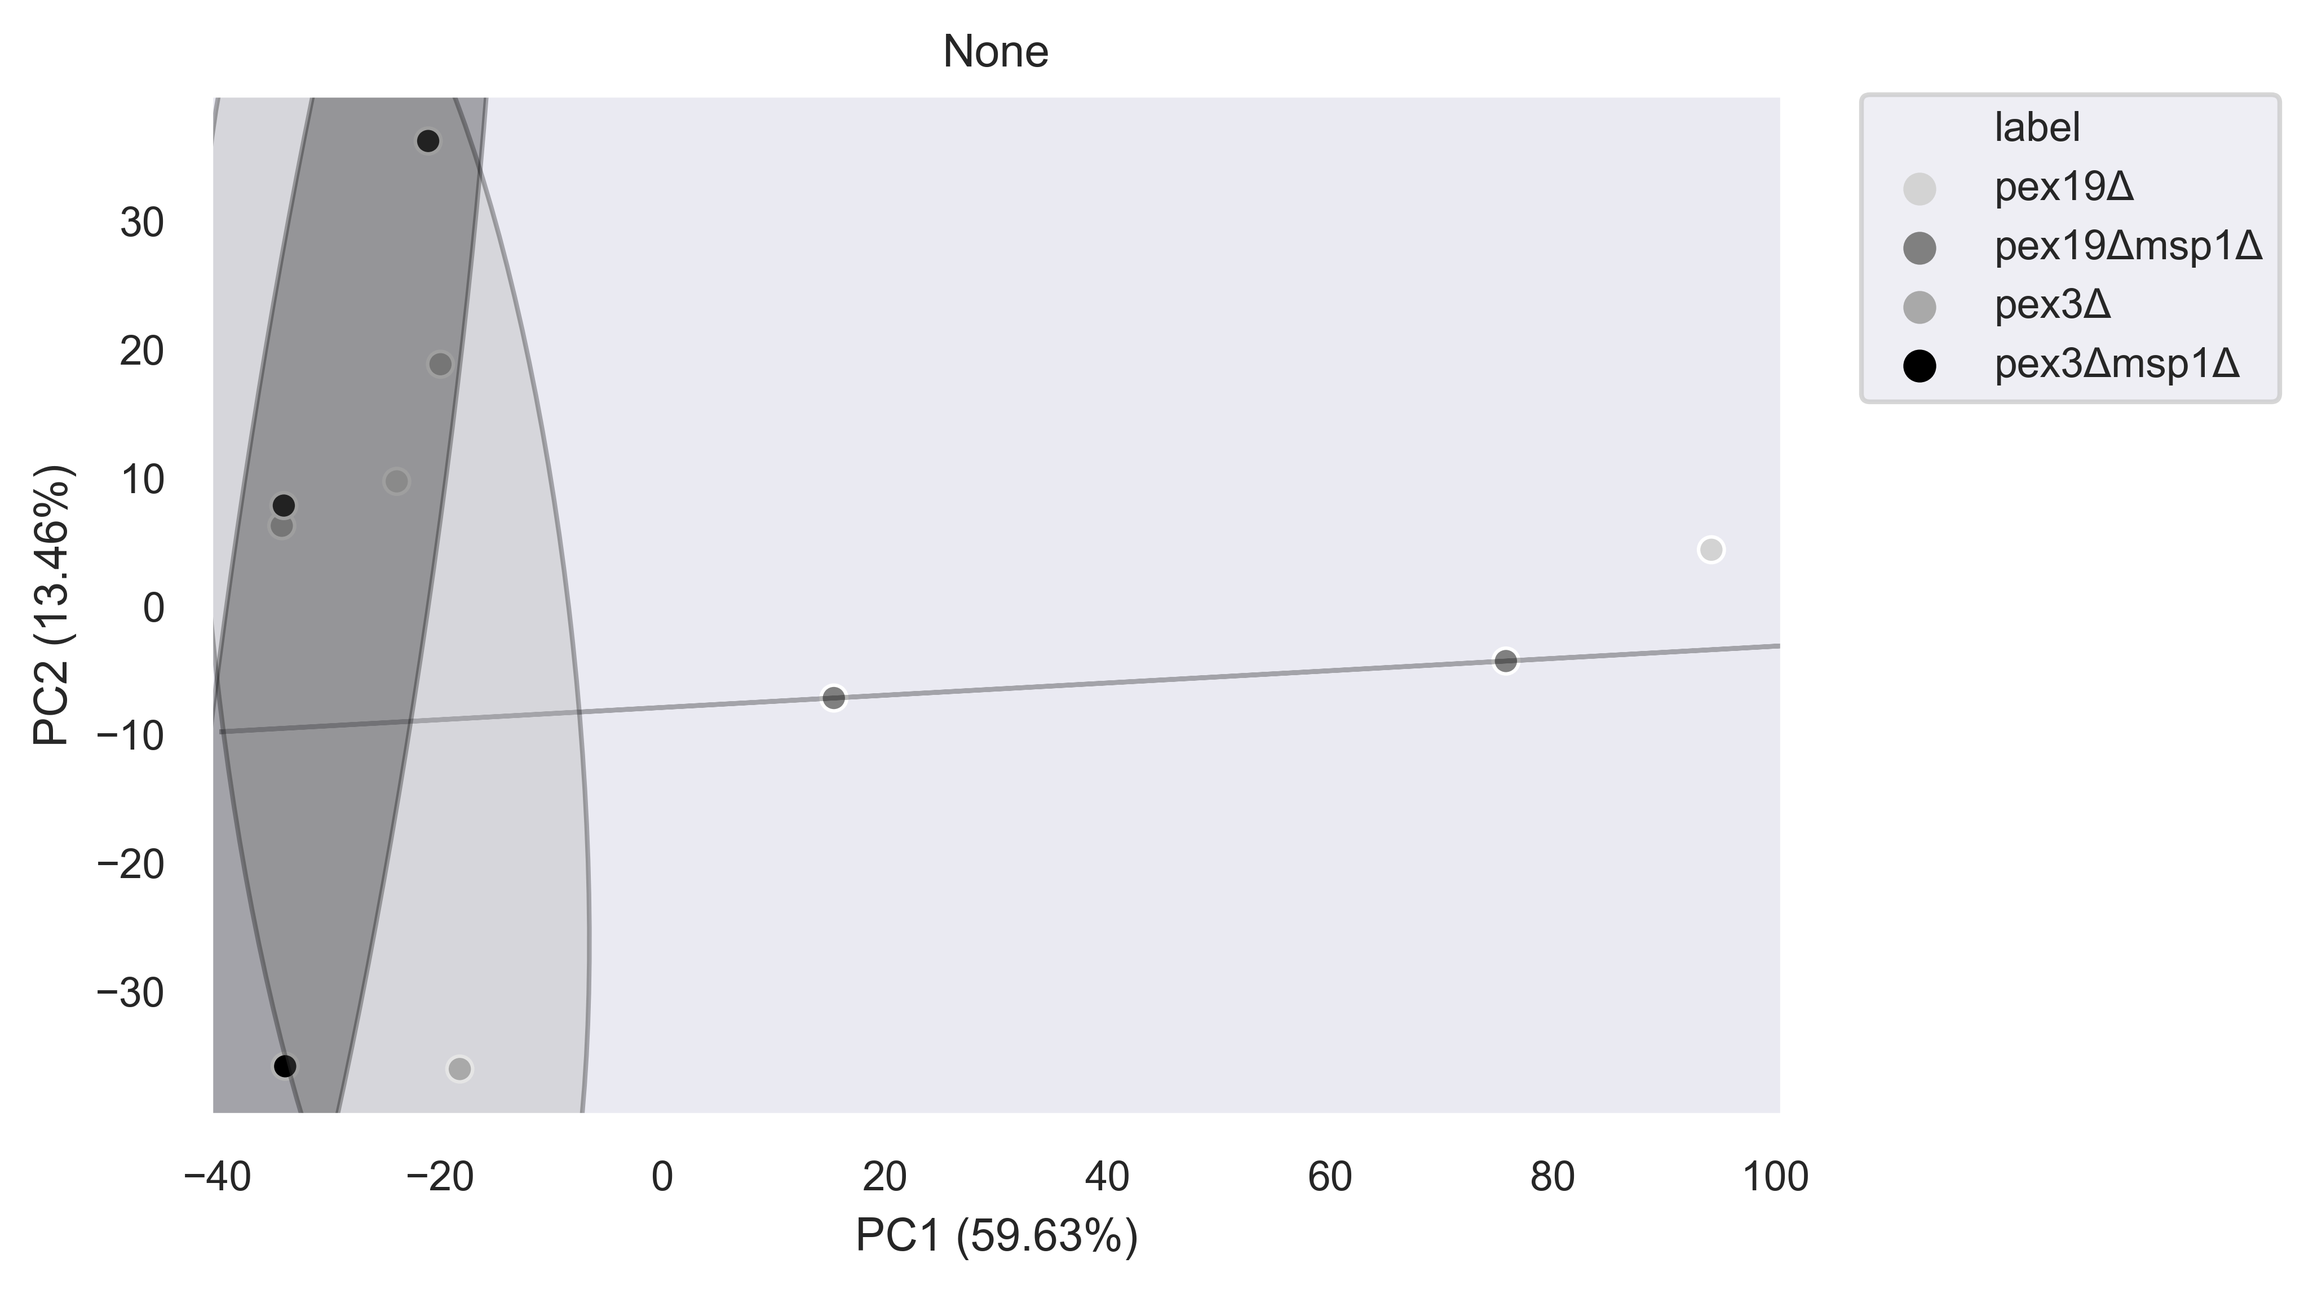
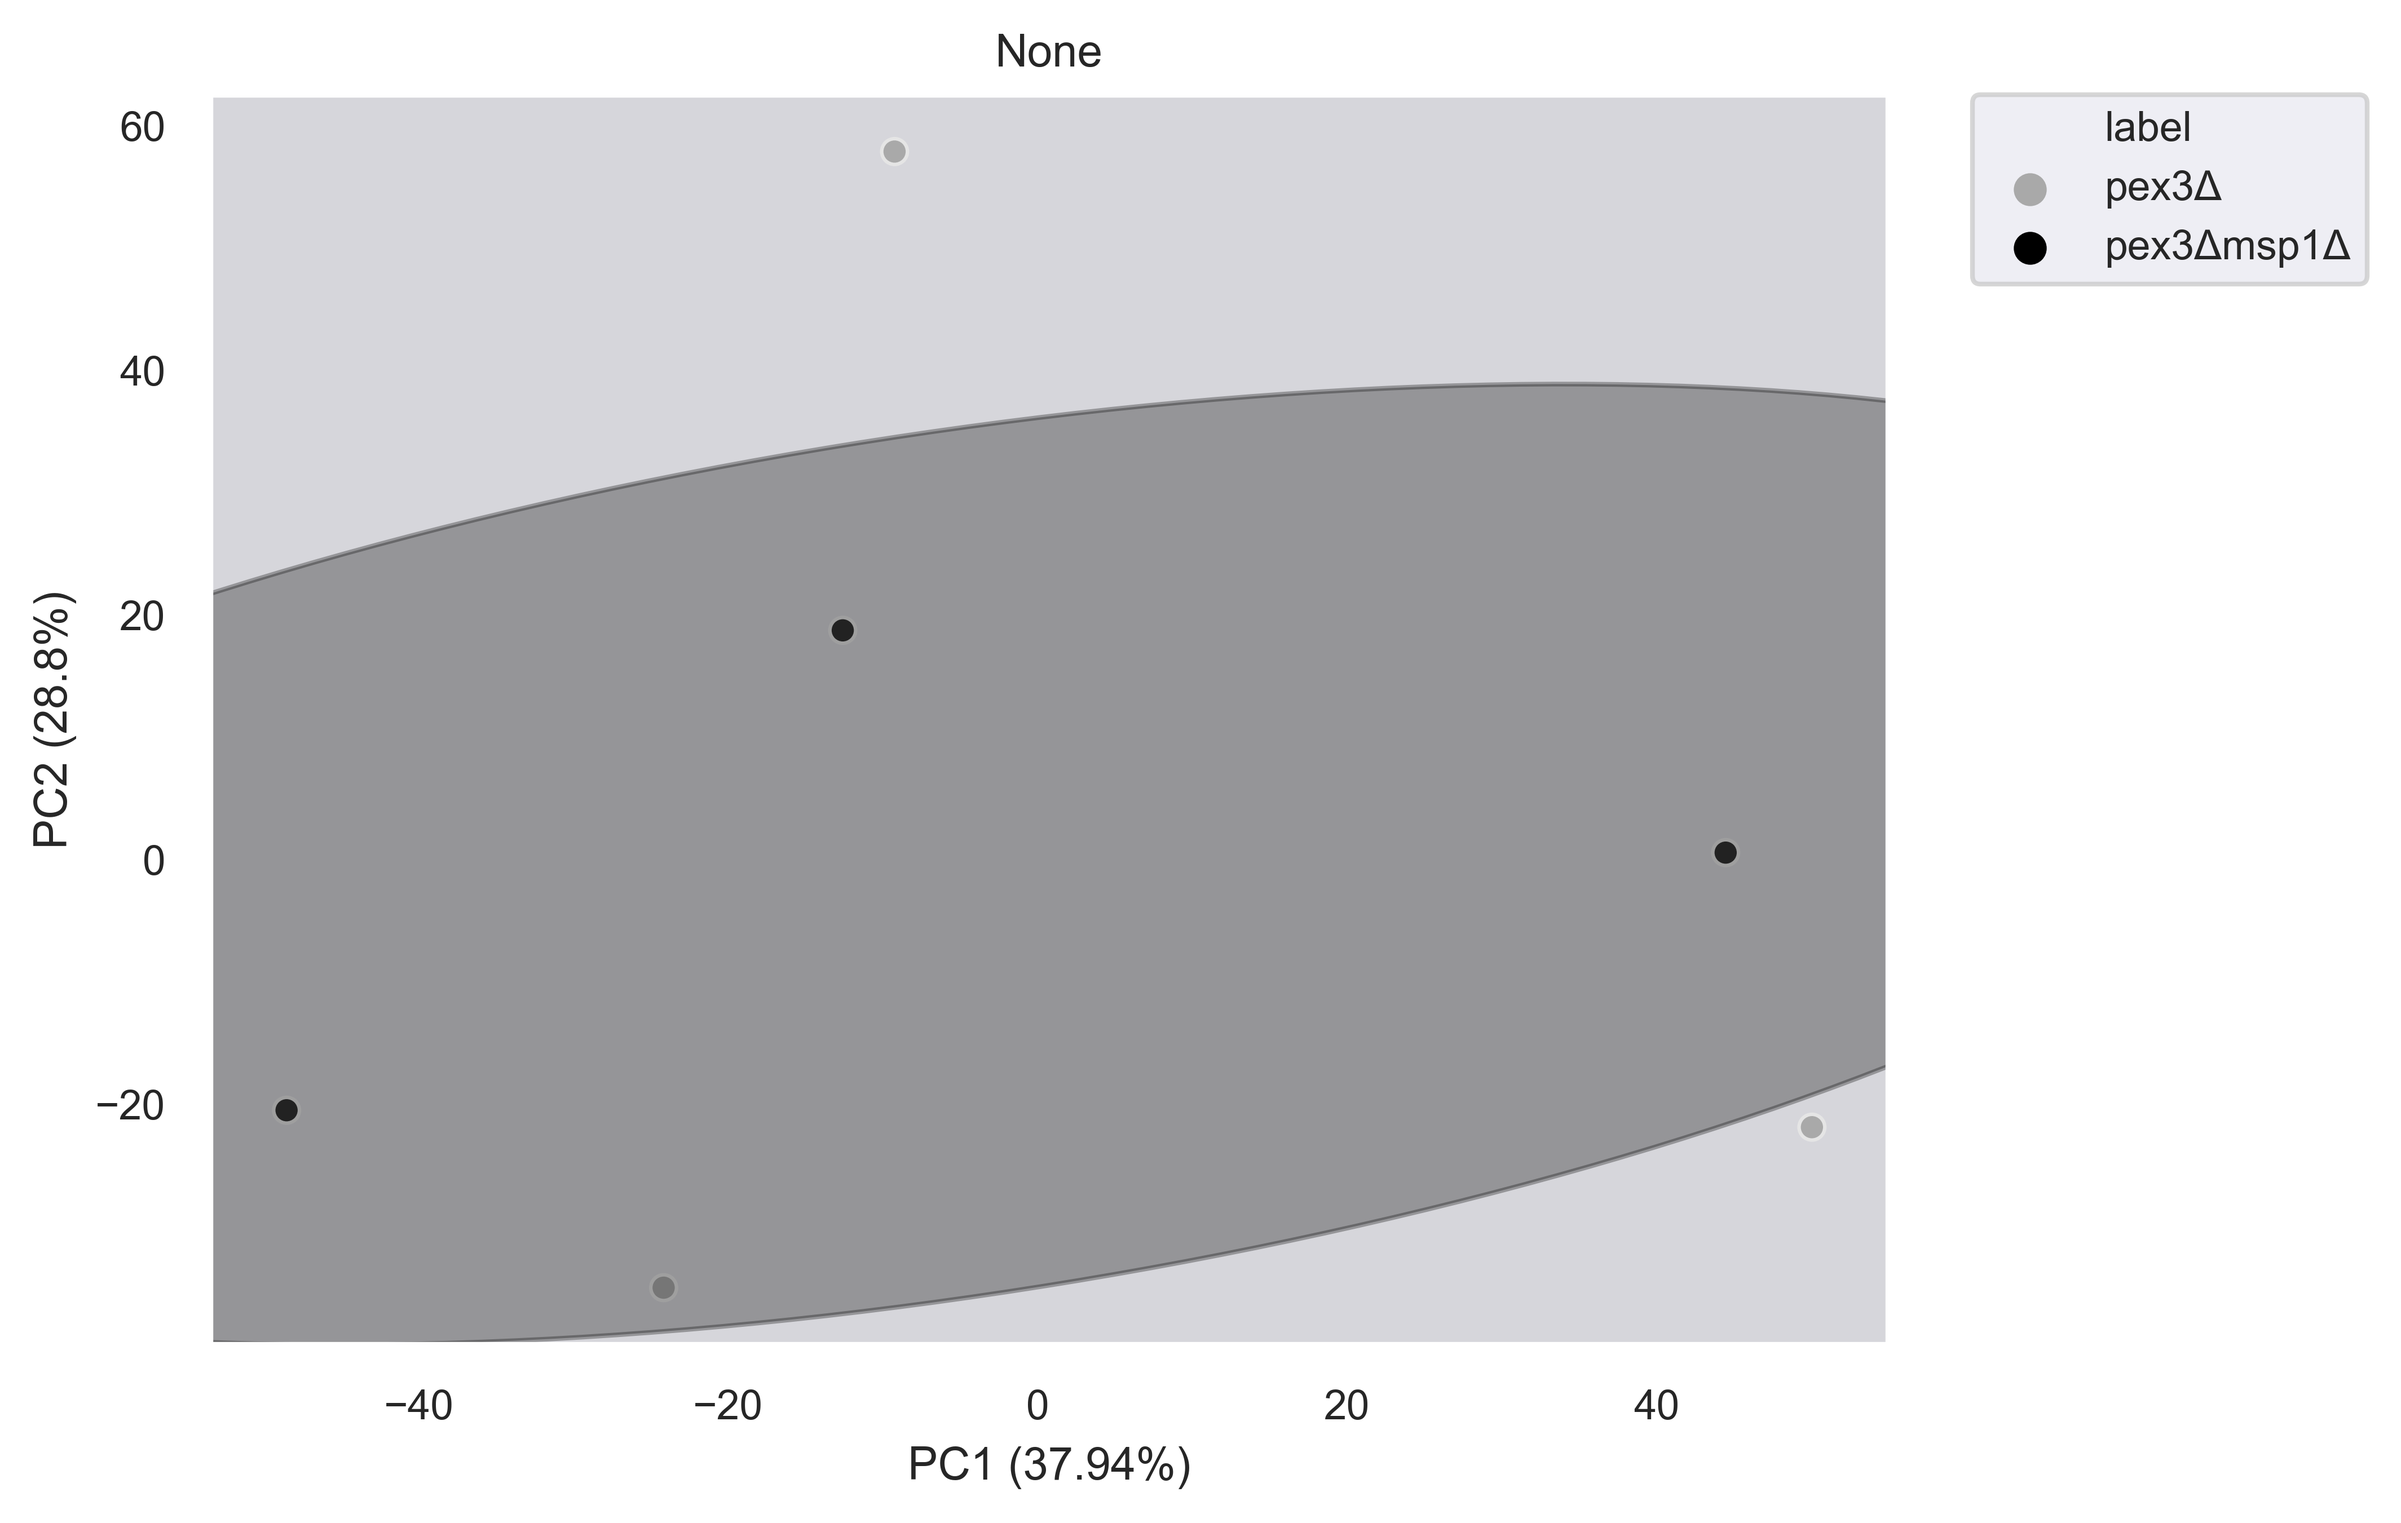
Update

diff --git a/pex3/analysis_pex3.py b/pex3/analysis_pex3.py
@@ -23,15 +23,24 @@ data.columns = [
     'pex3\u0394msp1\u0394-3',
 ]
 
+data = data[[
+    'pex3\u0394-1',
+    'pex3\u0394-2',
+    'pex3\u0394-3',
+    'pex3\u0394msp1\u0394-1',
+    'pex3\u0394msp1\u0394-2',
+    'pex3\u0394msp1\u0394-3',
+]]
+
 """Build metadata
 """
 meta = pd.DataFrame()
 meta[0] = data.columns
 meta[1] = [
-    'pex19\u0394',
-    'pex19\u0394',
-    'pex19\u0394msp1\u0394',
-    'pex19\u0394msp1\u0394',
+    #'pex19\u0394',
+    #'pex19\u0394',
+    #'pex19\u0394msp1\u0394',
+    #'pex19\u0394msp1\u0394',
     'pex3\u0394',
     'pex3\u0394',
     'pex3\u0394',
@@ -55,8 +64,6 @@ pex_list = [
     "PEX29",
     "PEX5",
     "PEX7",
-    "PEX6",
-    "PEX1",
     "POT1",
     "MDH3",
     "LYS1",
@@ -69,18 +76,20 @@ pex_list = [
 """Heatmap of PEX proteins
 """
 sample_colors = {
-    'pex19\u0394':'lightgrey',
-    'pex19\u0394msp1\u0394':'grey',
     'pex3\u0394':'darkgrey',
     'pex3\u0394msp1\u0394':'black'
 }
 
 data_scaled, data_labeled = xp.prep_data(data, meta, gene_scale=True)
 
+
+
+
 xp.pca(
     data_scaled,
     meta,
     sample_colors,
+    n_components=2,
     save_fig='/Users/jordan/Desktop/nuebel_2020/pex3/pca_all.png')
 
 gene_info = pd.DataFrame()
@@ -98,8 +107,6 @@ gene_info[1] = [
     'Importomer',
     'Cytosolic Cargo Receptors',
     'Cytosolic Cargo Receptors',
-    'Membrane Anchored',
-    'Membrane Anchored',
     'Matrix Proteins',
     'Matrix Proteins',
     'Matrix Proteins',
@@ -111,7 +118,6 @@ gene_info[1] = [
 gene_colors = {
     'Importomer':'#a49284',
     'Cytosolic Cargo Receptors':'#f6efd0',
-    'Membrane Anchored':'#41796b',
     'Matrix Proteins':'lightblue',
     'Other':'#d95f02'
 }
@@ -126,7 +132,7 @@ xp.heatmap(
     col_cluster = False,
     row_cluster = False,
     cbar_kws = {'label':'z-score'},
-    figsize = (5,6)
+    figsize = (3,6)
 )
 
 # Format legends
@@ -155,7 +161,7 @@ label_points = {
     'PEX11':[1.45,	1.95],
     'PEX2':[1.55,	3.3],
     'PEX15':[1.65,	2.2],
-    'MSP1':[-4,	1.75],
+    'MSP1':[-4,	    1.75],
 }
 
 xp.volcano(
